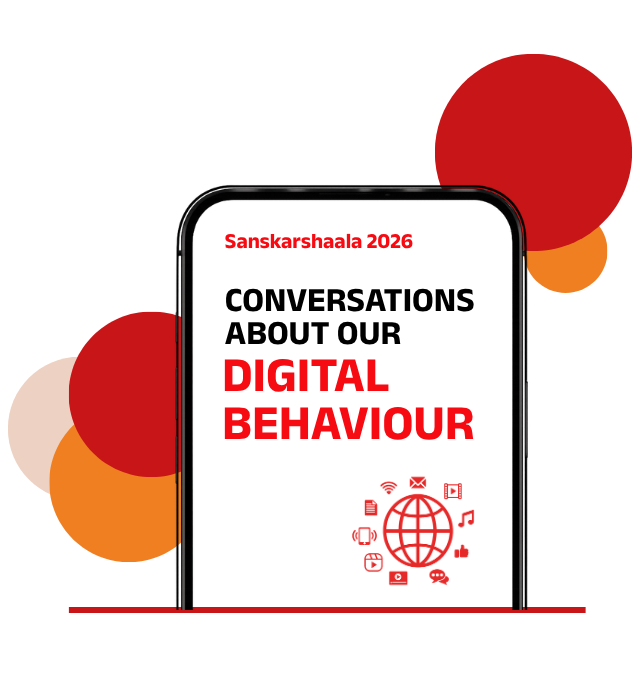
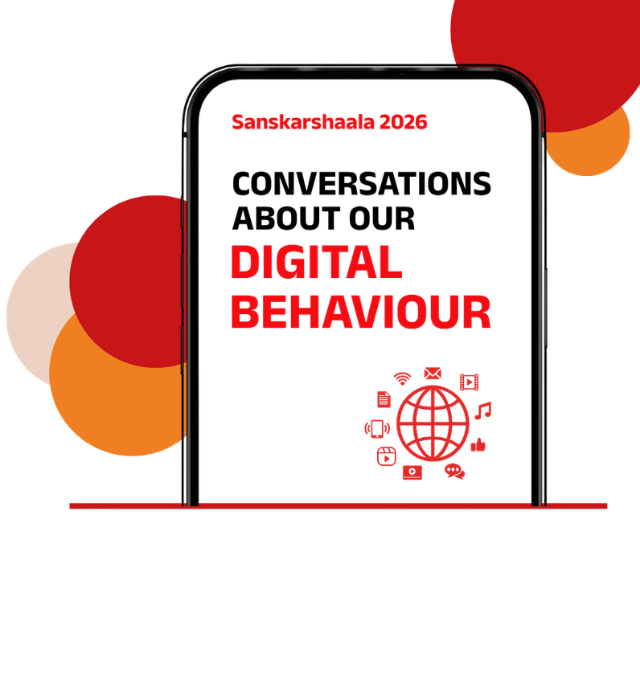
time zone fix

diff --git a/jagransanskarshala/src/services/latestUpdates.js b/jagransanskarshala/src/services/latestUpdates.js
@@ -54,12 +54,21 @@ export async function getLatestUpdates() {
         targetLink = defaultStoryLink;
       }
 
+      // Detect if this notification should open the survey modal
+      const fullText = ((item.msgEn || "") + " " + (item.msgHi || "")).toLowerCase();
+      const isSurveyItem =
+        fullText.includes("survey") ||
+        fullText.includes("participate") ||
+        fullText.includes("सर्वेक्षण") ||
+        fullText.includes("भाग लें") ||
+        fullText.includes("participate in india");
+
       return {
         id: item._id,
         titleEn: item.msgEn || "",
         titleHi: item.msgHi || "",
         link: targetLink,
-        actionType: "navigate",
+        actionType: isSurveyItem ? "surveyModal" : "navigate",
       };
     });
   } catch (error) {

diff --git a/backend/src/controllers/surveyController.js b/backend/src/controllers/surveyController.js
@@ -182,6 +182,7 @@ export const getAllSurveys = async (req, res) => {
             hour: "2-digit",
             minute: "2-digit",
             hour12: true,
+            timeZone: "Asia/Kolkata",
           })
         : "-",
     }));

diff --git a/jagransanskarshala/src/components/Admin/ContactLeadsView.jsx b/jagransanskarshala/src/components/Admin/ContactLeadsView.jsx
@@ -321,6 +321,7 @@ export default function ContactLeadsView() {
         hour: "2-digit",
         minute: "2-digit",
         hour12: true,
+        timeZone: "Asia/Kolkata",
       }),
     }));
 
